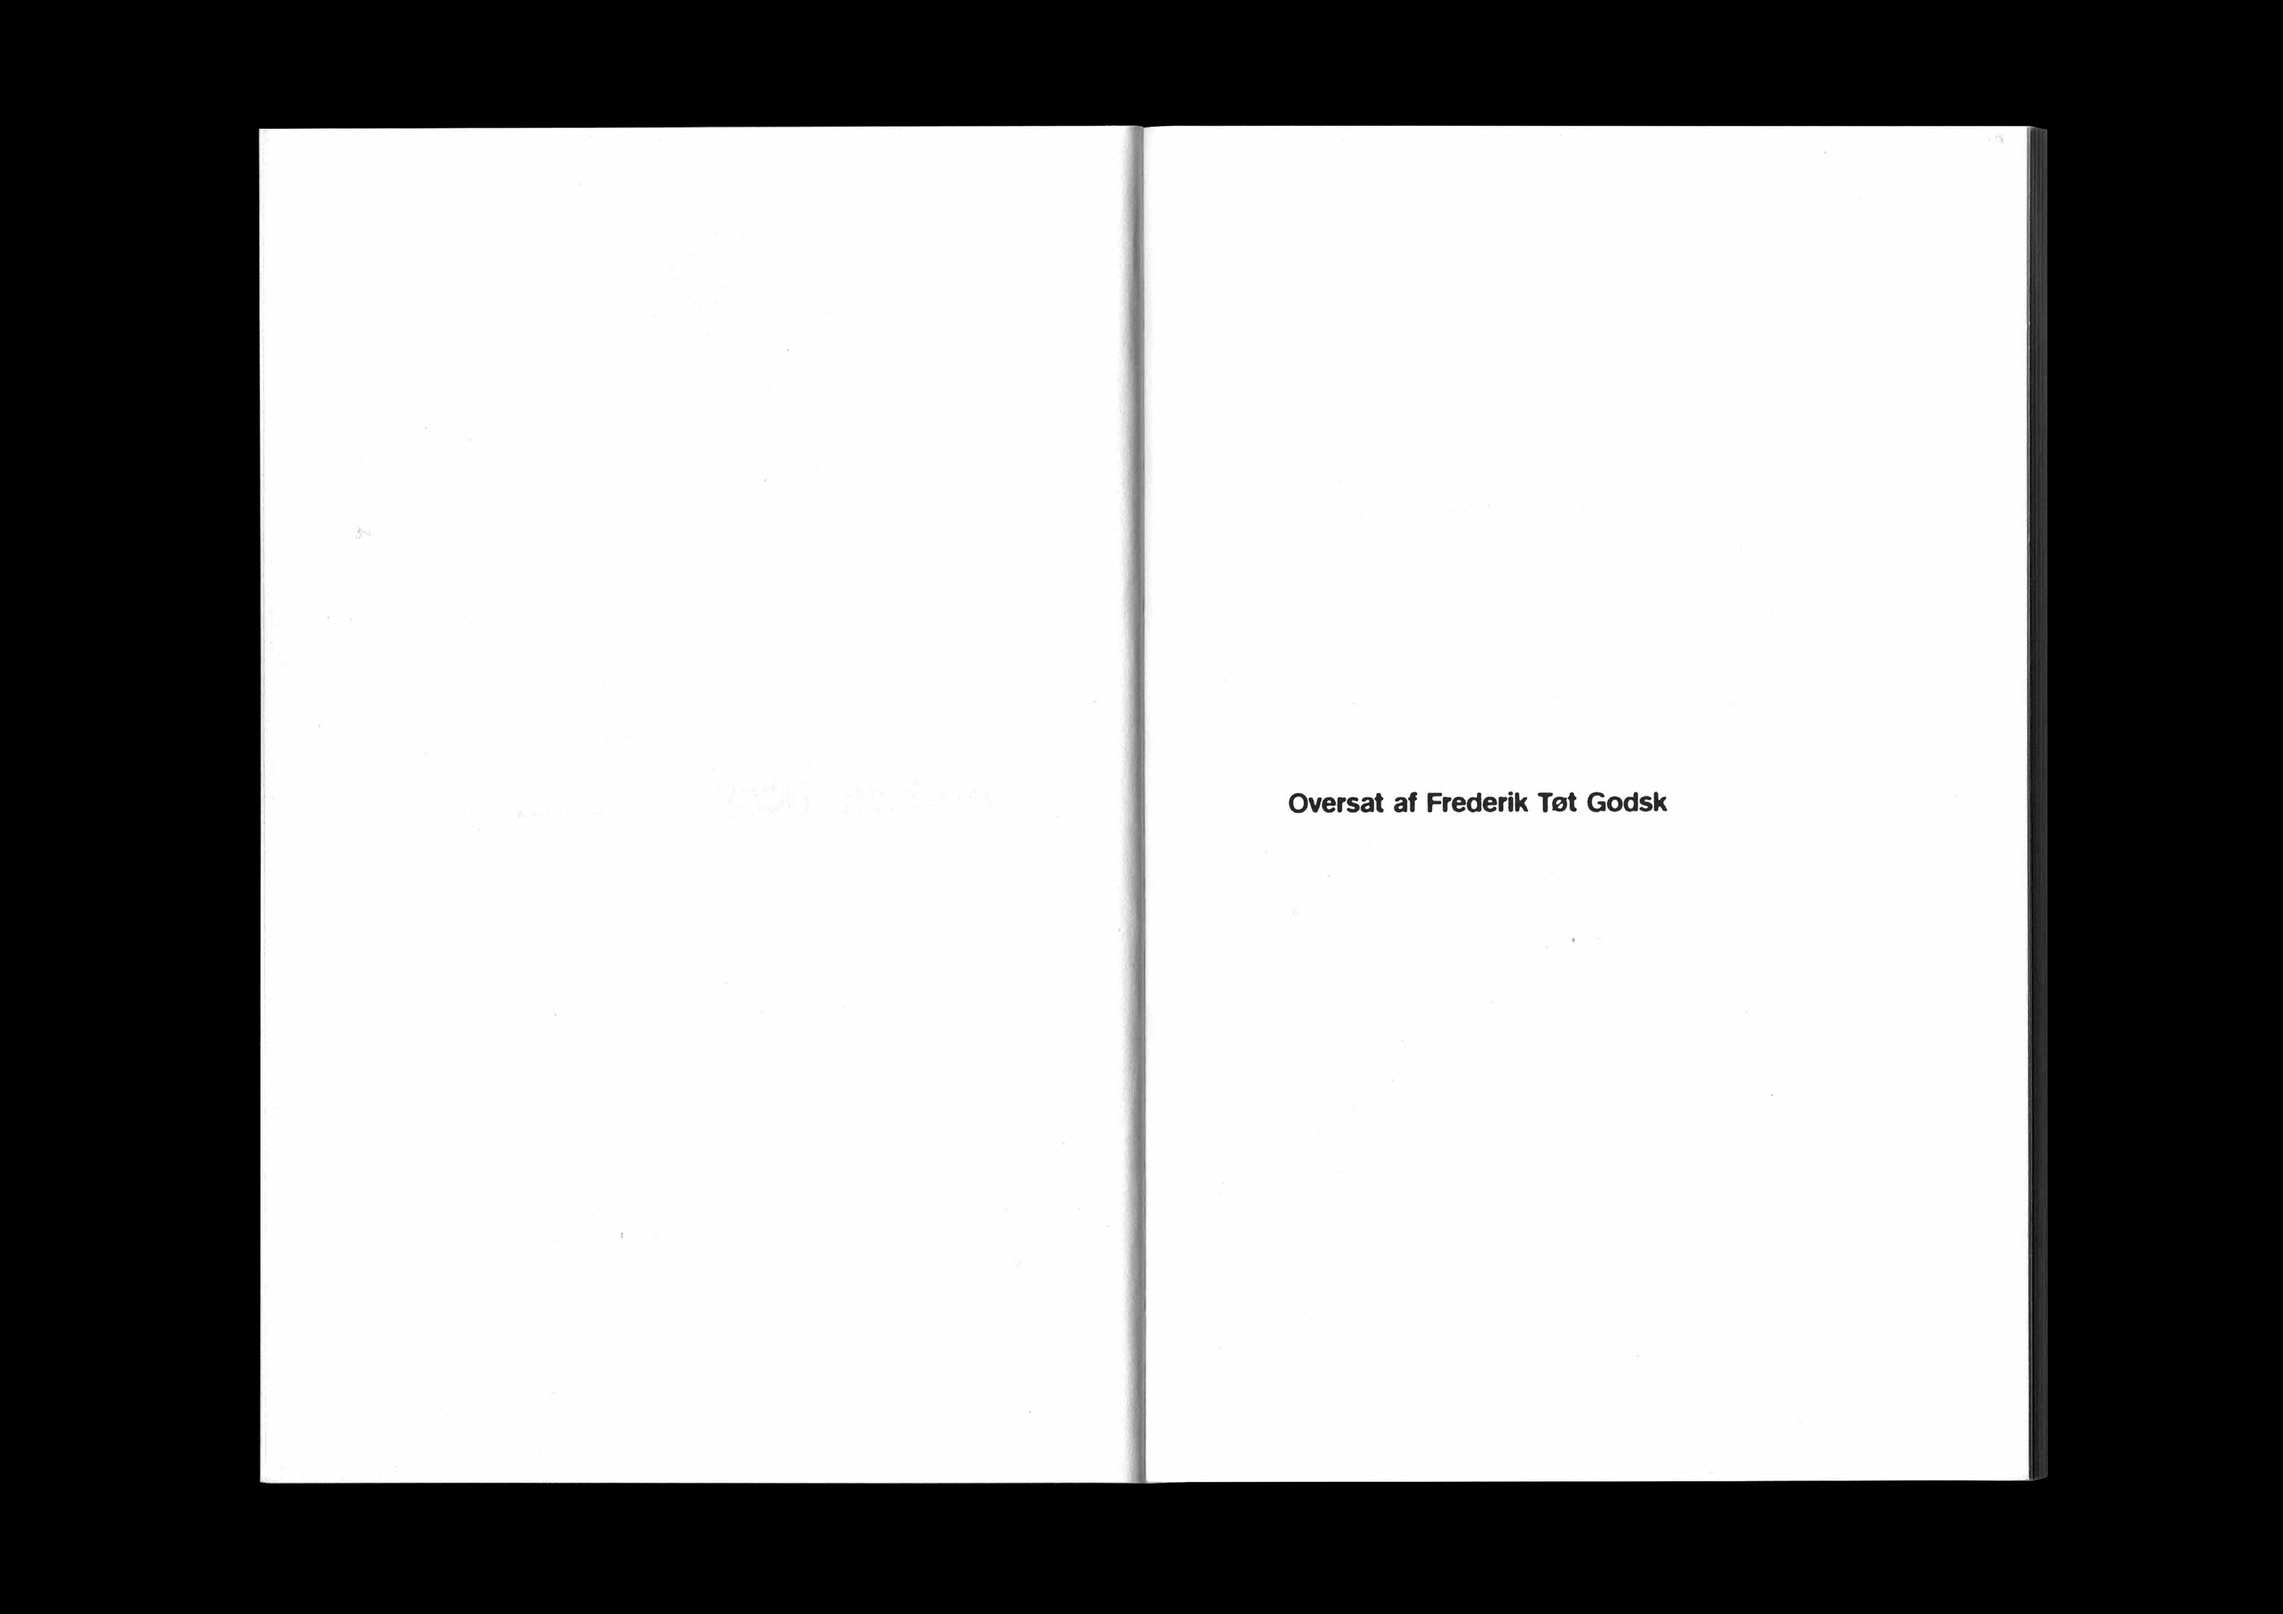
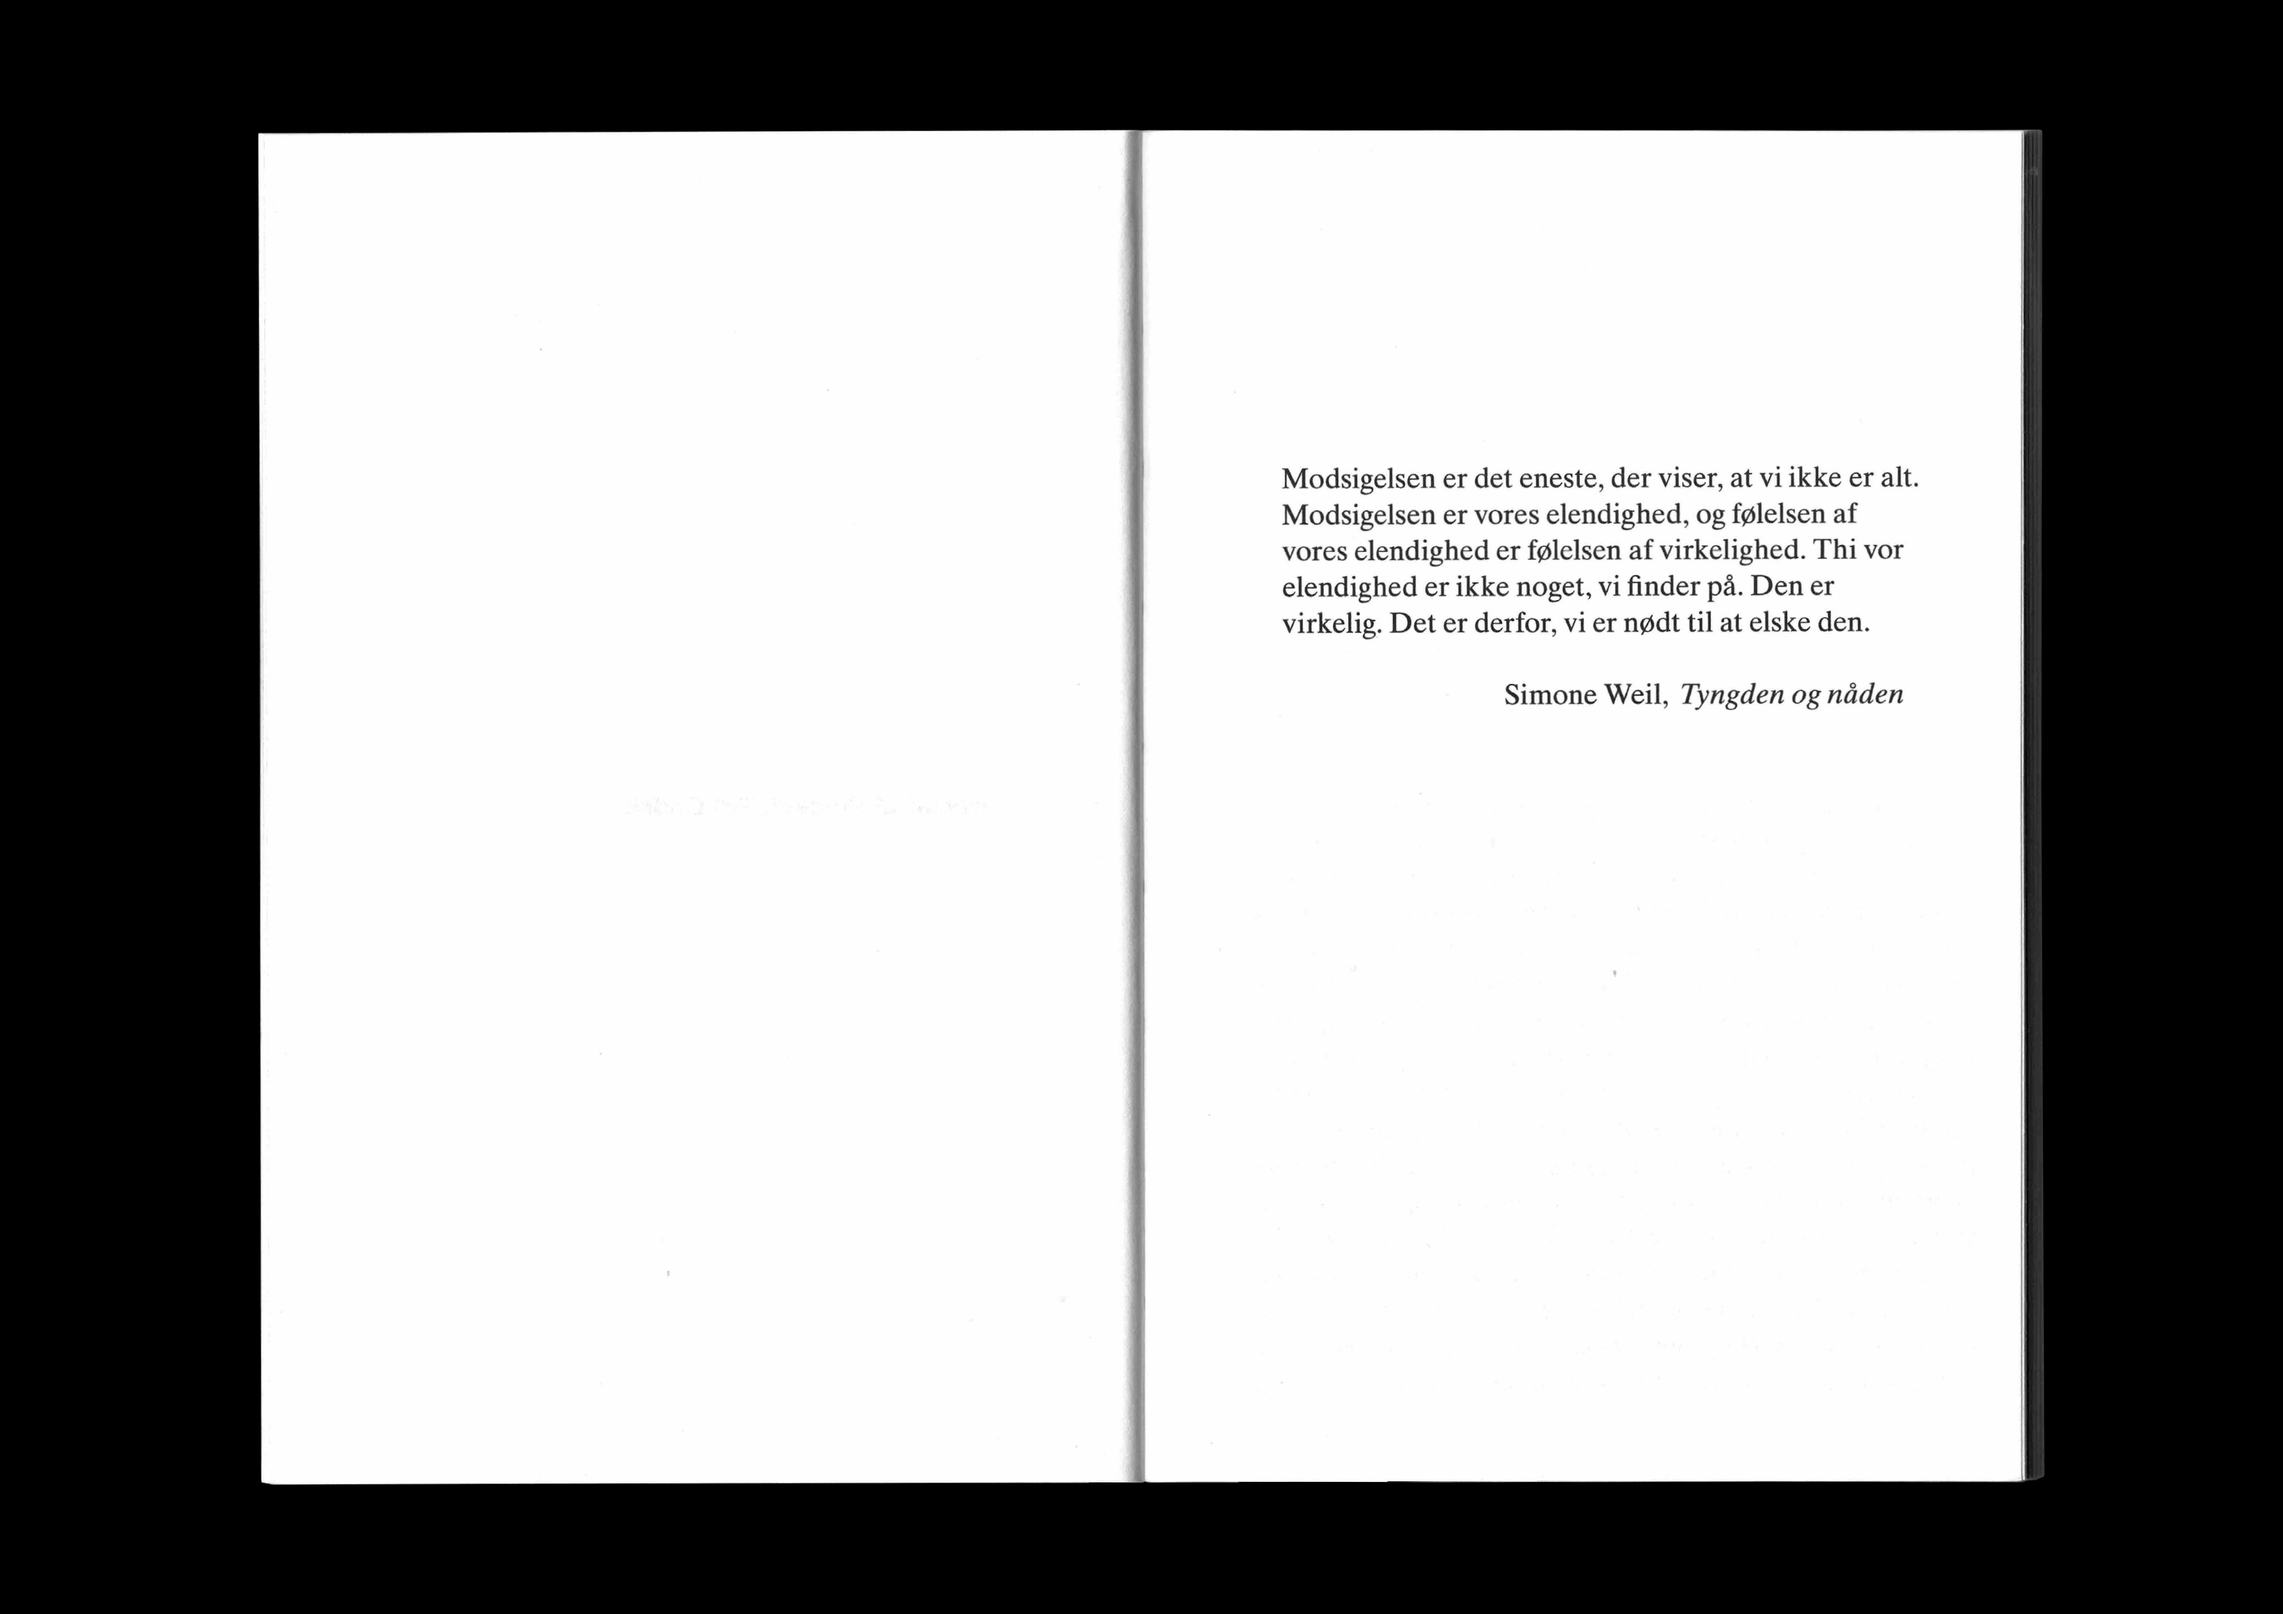
New edits

Changed region(s): [[0.1243, 0.0621, 0.9011, 0.9315], [0.5593, 0.2794, 0.8389, 0.4347], [0.5593, 0.4968, 0.7147, 0.5278]]

diff --git a/projects/09_MPI_Bruner/600.html b/projects/09_MPI_Bruner/600.html
@@ -1,1 +1,1 @@
-The Jerome Bruner Library: From New York to Nijmegen. Published by the Max Planck Institute for Psycholinguistics to commemorate the American psycholinguist Jerome Bruner, and to inaugurate the donation of his personal library to the institute. Texts by Willem J.M. Levelt, Karin Kastens and Eleanor M. Fox. 2020. Display typeface by <a href="https://orangeslicetype.nl">Orange Slice Type</a>
+<em>The Jerome Bruner Library: From New York to Nijmegen</em>. Published by the Max Planck Institute for Psycholinguistics to commemorate the American psycholinguist Jerome Bruner, and to inaugurate the donation of his personal library to the institute. Texts by Willem J.M. Levelt, Karin Kastens and Eleanor M. Fox. 2020. Display typeface by <a href="https://orangeslicetype.nl">Orange Slice Type</a>

diff --git a/about/index.html b/about/index.html
@@ -22,7 +22,7 @@
 </header>
 
 <main>
-	<p class="about">Mark Emil Poulsen is a graphic designer currently based in Copenhagen. He collaborates with a wide range of practitioners and disciplines, predominantly within the field of culture. His work as a designer is content driven; motivated by a notion of designing as a form of close reading that engages in a visual and contextual dialogue with somebody else’s work. 
+	<p class="about">Mark Emil Poulsen is a graphic designer currently based in Copenhagen. His work as a designer is content driven; motivated by a notion of designing as a form of close reading that engages in a visual and contextual dialogue with somebody else’s work. 
 
 Contact:
 markemilpoulsen@gmail.com

diff --git a/about/content.html b/about/content.html
@@ -1,4 +1,4 @@
-Mark Emil Poulsen is a graphic designer currently based in Copenhagen. He collaborates with a wide range of practitioners and disciplines, predominantly within the field of culture. His work as a designer is content driven; motivated by a notion of designing as a form of close reading that engages in a visual and contextual dialogue with somebody else’s work. 
+Mark Emil Poulsen is a graphic designer currently based in Copenhagen. His work as a designer is content driven; motivated by a notion of designing as a form of close reading that engages in a visual and contextual dialogue with somebody else’s work. 
 
 Contact:
 markemilpoulsen@gmail.com

diff --git a/projects/02_Clarice_Lispector_At skrive_og_leve/600.html b/projects/02_Clarice_Lispector_At skrive_og_leve/600.html
@@ -1,1 +1,1 @@
-Clarice Lispector: At skrive og leve. Selected crônicas first published in the newspaper Jornal do Brasil between 1967–1973. Designed in collaboration with Orin Bristow. Published by <a href="https://basilisk.dk">Basilisk</a>, 2023
+Clarice Lispector: <em>At skrive og leve</em>. Selected "crônicas" first published in the newspaper Jornal do Brasil between 1967–1973. Designed in collaboration with Orin Bristow. Translated by Tine Lykke Prado and Kristina Nya Glaffey. Edited by Astrid Willow Møldrup. Published by Basilisk, 2023

diff --git a/projects/04_A Wish_Tringa_Gashi/600.html b/projects/04_A Wish_Tringa_Gashi/600.html
@@ -1,1 +1,1 @@
-Posters and handout for the exhibition A wish by artist Tringa Gashi. Texts by Andita Shabanaj and Tringa Gashi. Each poster contains a different photographic print from the artist’s archive. 2023
+Posters and handout for the exhibition <em>A wish</em> by artist Tringa Gashi. Texts by Andita Shabanaj and Tringa Gashi. Each poster features a glossy photographic print from the artist’s archive. 2023

diff --git a/projects/03_Killer_Machine/600.html b/projects/03_Killer_Machine/600.html
@@ -1,1 +1,1 @@
-Paula Duvå: Killer Machine (the sublime sky, clouds, camouflage smoke disrupting heat seeking missiles, fighter planes removed). Published by <a href="https://diskobay.org">Disko Bay</a>, 2023
+Paula Duvå: <em>Killer Machine (the sublime sky, clouds, camouflage smoke disrupting heat seeking missiles, fighter planes removed)</em>. Published by Disko Bay, 2023

diff --git a/projects/08_Rodløs_Cider/600.html b/projects/08_Rodløs_Cider/600.html
@@ -1,1 +1,1 @@
-Drawings and labels for Rodløs Cider: A project by Emil Næsby Hansen, who makes cider from the trees that he finds in the landscape around Funen. 2020–2022
+Drawings and labels for Rodløs Cider. 2020–2022

diff --git a/projects/06_Elendigheden/600.html b/projects/06_Elendigheden/600.html
@@ -1,1 +1,1 @@
-Andrzej Tichý: Elendigheden. Published by <a href="https://basilisk.dk">Basilisk</a>, 2022
+Andrzej Tichý: <em>Elendigheden</em>. Translated by Frederik Tøt Godsk. Published by Basilisk, 2022
